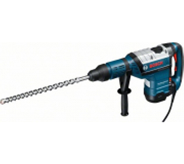
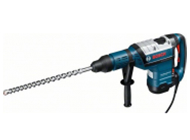
Выравнивание картинок в карточке товара

Changed region(s): [[0.0, 0.2286, 1.0, 0.8286], [0.5435, 0.3714, 0.5707, 0.4]]

diff --git a/catalog.html b/catalog.html
@@ -186,7 +186,7 @@
             <ul class="products-list">
               <li class="products-item">
                 <a href="#">
-                  <img src="img/product-bosch-bfg-6000.jpg" width="144" height="128" alt="Изображение перфоратора BOSCH BFG 6000">
+                  <img src="img/product-bosch-bfg-6000.jpg" width="190" height="140" alt="Изображение перфоратора BOSCH BFG 6000">
                   <h3 class="products-title">Перфоратор BOSCH BFG 6000</h3>
                   <span>30500 Р.</span>
                   <p class="price">25500 Р.</p>
@@ -199,7 +199,7 @@
 
               <li class="products-item">
                 <a href="#">
-                  <img src="img/product-bosch-bfg-6000.jpg" width="144" height="128" alt="Изображение перфоратора BOSCH BFG 6000">
+                  <img src="img/product-bosch-bfg-6000.jpg" width="190" height="140" alt="Изображение перфоратора BOSCH BFG 6000">
                   <h3 class="products-title" href="#">Перфоратор BOSCH BFG 6000</h3>
                   <span>30500 Р.</span>
                   <p class="price" href="#">25500 Р.</p>
@@ -212,7 +212,7 @@
 
               <li class="products-item sticker-new">
                 <a href="#">
-                  <img src="img/product-bosch-bfg-6000.jpg" width="144" height="128" alt="Изображение перфоратора BOSCH BFG 6000">
+                  <img src="img/product-bosch-bfg-6000.jpg" width="190" height="140" alt="Изображение перфоратора BOSCH BFG 6000">
                   <h3 class="products-title" href="#">Перфоратор BOSCH BFG 6000</h3>
                   <span>30500 Р.</span>
                   <p class="price" href="#">25500 Р.</p>
@@ -225,7 +225,7 @@
 
               <li class="products-item sticker-new">
                 <a href="#">
-                  <img src="img/product-bosch-bfg-3000.jpg" width="127" height="112" alt="Изображение перфоратора BOSCH BFG 3000">
+                  <img src="img/product-bosch-bfg-3000.jpg" width="190" height="140" alt="Изображение перфоратора BOSCH BFG 3000">
                   <h3 class="products-title" href="#">Перфоратор BOSCH BFG 3000</h3>
                   <span>22500 Р.</span>
                   <p class="price" href="#">15500 Р.</p>
@@ -238,7 +238,7 @@
 
               <li class="products-item">
                 <a href="#">
-                  <img src="img/product-bosch-bfg-6000.jpg" width="144" height="128" alt="Изображение перфоратора BOSCH BFG 6000">
+                  <img src="img/product-bosch-bfg-6000.jpg" width="190" height="140" alt="Изображение перфоратора BOSCH BFG 6000">
                   <h3 class="products-title" href="#">Перфоратор BOSCH BFG 6000</h3>
                   <span>30500 Р.</span>
                   <p class="price" href="#">25500 Р.</p>
@@ -251,8 +251,9 @@
 
               <li class="products-item sticker-new">
                 <a href="#">
-                  <img src="img/product-bosch-bfg-2000.jpg" width="127" height="112" alt="Изображение перфоратора BOSCH BFG 2000">
+                  <img src="img/product-bosch-bfg-2000.jpg" width="190" height="140" alt="Изображение перфоратора BOSCH BFG 2000">
                   <h3 class="products-title" href="#">Перфоратор BOSCH BFG 2000</h3>
+                  <span></span>
                   <p class="price" href="#">12500 Р.</p>
                 </a>
                 <div class="catalog-buttons">
@@ -263,7 +264,7 @@
 
               <li class="products-item sticker-new">
                 <a href="#">
-                  <img src="img/product-bosch-bfg-3000.jpg" width="127" height="112" alt="Изображение перфоратора BOSCH BFG 3000">
+                  <img src="img/product-bosch-bfg-3000.jpg" width="190" height="140" alt="Изображение перфоратора BOSCH BFG 3000">
                   <h3 class="products-title" href="#">Перфоратор BOSCH BFG 3000</h3>
                   <span>22500 Р.</span>
                   <p class="price" href="#">15500 Р.</p>
@@ -276,7 +277,7 @@
 
               <li class="products-item">
                 <a href="#">
-                  <img src="img/product-bosch-bfg-6000.jpg" width="144" height="128" alt="Изображение перфоратора BOSCH BFG 6000">
+                  <img src="img/product-bosch-bfg-6000.jpg" width="190" height="140" alt="Изображение перфоратора BOSCH BFG 6000">
                   <h3 class="products-title" href="#">Перфоратор BOSCH BFG 6000</h3>
                   <span>30500 Р.</span>
                   <p class="price" href="#">25500 Р.</p>
@@ -289,8 +290,9 @@
 
               <li class="products-item sticker-new">
                 <a href="#">
-                  <img src="img/product-bosch-bfg-2000.jpg" width="127" height="112" alt="Изображение перфоратора BOSCH BFG 2000">
+                  <img src="img/product-bosch-bfg-2000.jpg" width="190" height="140" alt="Изображение перфоратора BOSCH BFG 2000">
                   <h3 class="products-title" href="#">Перфоратор BOSCH BFG 2000</h3>
+                  <span></span>
                   <p class="price" href="#">12500 Р.</p>
                 </a>
                 <div class="catalog-buttons">

diff --git a/index.html b/index.html
@@ -127,7 +127,7 @@
       <ul class="main-product-list">
         <li class="products-item">
           <a href="#">
-            <img src="img/product-bosch-bfg-9000.jpg" width="184" height="164" alt="Изображение перфоратора BOSCH BFG 9000">
+            <img src="img/product-bosch-bfg-9000.jpg" width="190" height="140" alt="Изображение перфоратора BOSCH BFG 9000">
             <h3 class="products-title">Перфоратор BOSCH BFG 9000</h3>
             <span>32500 Р.</span>
             <p class="price">25500 Р.</p>
@@ -141,7 +141,7 @@
         </li>
         <li class="products-item sticker-new">
           <a href="#">
-            <img src="img/product-bosch-bfg-3000.jpg" width="127" height="112" alt="Изображение перфоратора BOSCH BFG 3000">
+            <img src="img/product-bosch-bfg-3000.jpg" width="190" height="140" alt="Изображение перфоратора BOSCH BFG 3000">
             <h3 class="products-title">Перфоратор BOSCH BFG 3000</h3>
             <span>22500 Р.</span>
             <p class="price">15500 Р.</p>
@@ -153,7 +153,7 @@
         </li>
         <li class="products-item">
           <a href="#">
-            <img src="img/product-bosch-bfg-6000.jpg" width="144" height="128" alt="Изображение перфоратора BOSCH BFG 6000">
+            <img src="img/product-bosch-bfg-6000.jpg" width="190" height="140" alt="Изображение перфоратора BOSCH BFG 6000">
             <h3 class="products-title">Перфоратор BOSCH BFG 6000</h3>
             <span>30500 Р.</span>
             <p class="price">25500 Р.</p>
@@ -165,8 +165,9 @@
         </li>
         <li class="products-item sticker-new">
           <a href="">
-            <img src="img/product-bosch-bfg-2000.jpg" width="127" height="112" alt="Изображение перфоратора BOSCH BFG 2000">
+            <img src="img/product-bosch-bfg-2000.jpg" width="190" height="140" alt="Изображение перфоратора BOSCH BFG 2000">
             <h3 class="products-title">Перфоратор BOSCH BFG 2000</h3>
+            <span></span>
             <p class="price">12500 Р.</p>
           </a>
           <div class="catalog-buttons">

diff --git a/css/style.css b/css/style.css
@@ -885,7 +885,7 @@ img {
 }
 
 .products-item img {
-  margin: 5px auto;
+  margin: 13px auto;
 }
 
 .products-title {
@@ -896,6 +896,9 @@ img {
   text-decoration: none;
   text-align: center;
   margin-bottom: 7px;
+  margin-top: 13px;
+  padding-left: 15px;
+  padding-right: 15px;
 }
 
 .products-item span {
@@ -905,6 +908,7 @@ img {
   text-decoration: line-through;
   text-transform: uppercase;
   margin-bottom: 13px;
+  min-height: 18px;
 }
 
 .price {
@@ -966,6 +970,7 @@ img {
   margin-bottom: 10px;
   position: relative;
   padding-left: 23px;
+  cursor: pointer;
 }
 
 .button-buy:hover {
@@ -994,6 +999,7 @@ img {
   border: 3px solid var(--basic-green);
   color: var(--basic-blue);
   outline: none;
+  cursor: pointer;
 }
 
 .button-bookmarks:hover {
